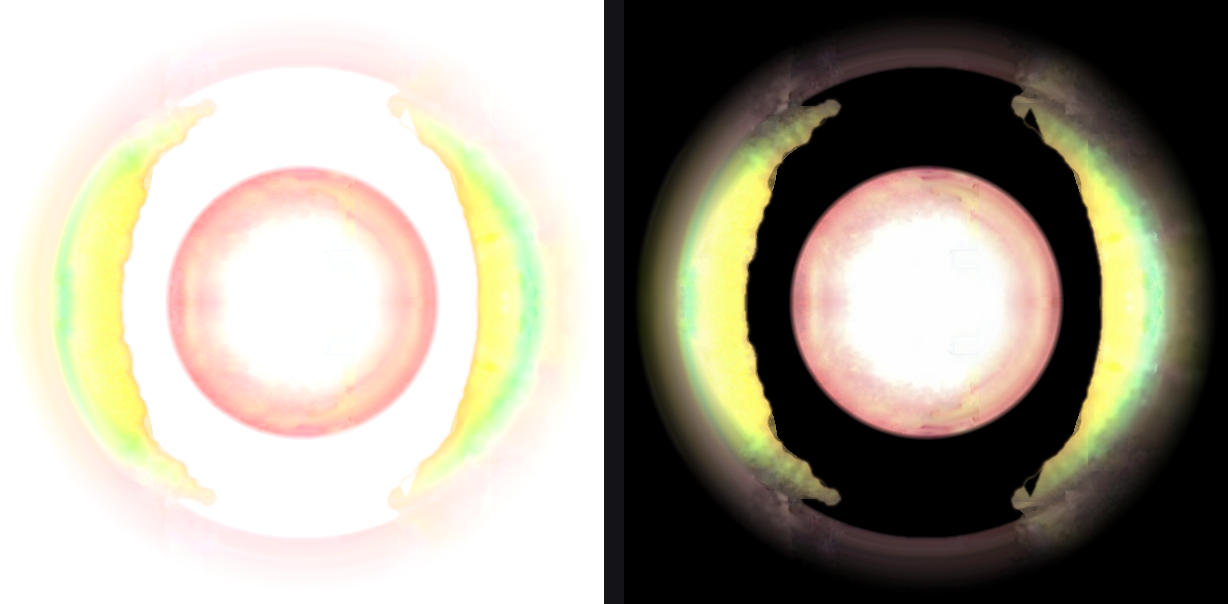
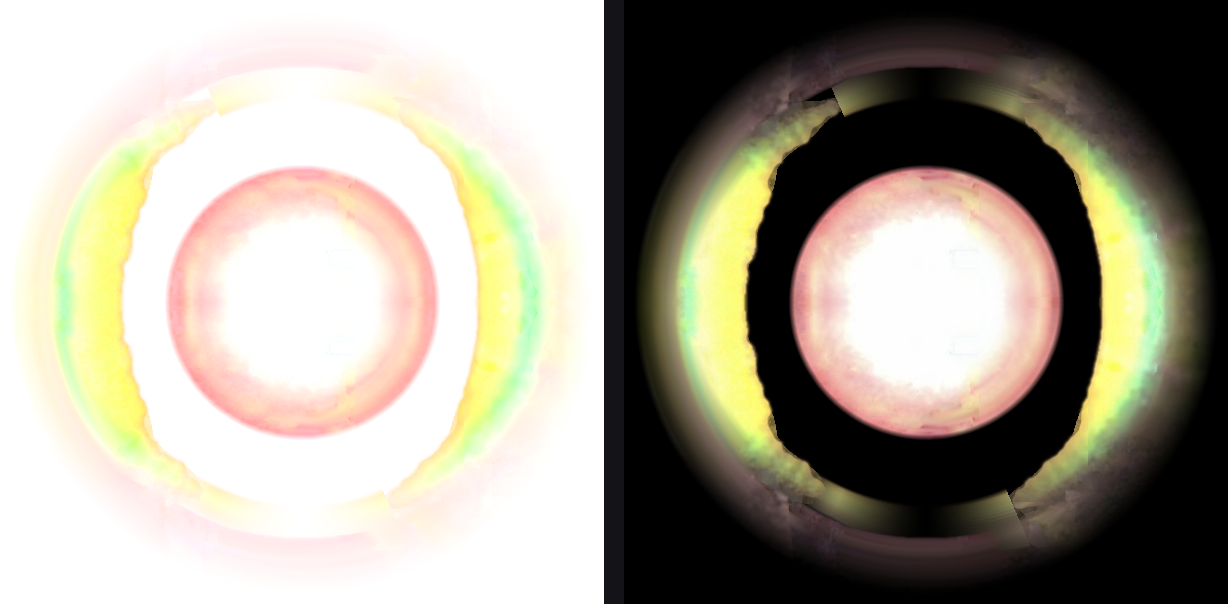
Efekt 10 küre: parantez uçları üstte ve altta birleşti, birleşme bandı uçlardan ortaya doğru saydamlaşıyor
Claude-Session: https://claude.ai/code/session_01E9c1WiJsMc9gXSJZ9D4z6g

diff --git a/arayuz/araclar/efekt10/kure_ref.py b/arayuz/araclar/efekt10/kure_ref.py
@@ -88,7 +88,7 @@ if not SADE:
     # kenar duzeltme (kutupsal): her parantez kendi merkez acisina gore (sag 0°, sol 180°) ±90° araliginda incelenir.
     # Aci basina ic/dis kenar olculur; ic kenar alt zarf, dis kenar ust zarfla duzgun yaya cekilir (girintiler dolar, cikintilar tiraslanir).
     # Uclar: parantezin aci araligi aynen kalir, son %10'da ic ve dis kenar birlesir -> uclar kalin ve sivri.
-    Yk=Y|Yc; NB=720
+    Yk=Y|Yc; NB=720; KENAR=[]
     for merkez in (0.0,np.pi):
         phi=np.angle(np.exp(1j*(np.arctan2(yy-CY,xx-CX)-merkez)))
         yan=np.abs(phi)<np.pi/2
@@ -108,9 +108,10 @@ if not SADE:
         ri=ndimage.gaussian_filter1d(ndimage.minimum_filter1d(ri,31,mode="nearest"),8,mode="nearest")
         ro=ndimage.gaussian_filter1d(ndimage.maximum_filter1d(ro,31,mode="nearest"),8,mode="nearest")
         pos=np.clip((np.arange(NB)-lo)/max(hi-lo,1),0,1)
-        uc=np.clip(np.minimum(pos,1-pos)/0.10,0,1)**0.7
+        uc=np.ones(NB)                                                    # incelme yok: uclar disari birlestirilir
         mid=(ri+ro)/2; ri2=mid-(mid-ri)*uc; ro2=mid+(ro-mid)*uc
         aralik=(bi>=lo)&(bi<=hi)&yan
+        KENAR.append((merkez,lo,hi,ri.copy(),ro.copy()))
         inside=aralik&(R>=ri2[bi])&(R<=ro2[bi])
         yeni=inside&~Yk
         if yeni.any():
@@ -120,6 +121,45 @@ if not SADE:
             T=T*(1-w2)+np.maximum(T,kom2)*w2
         tasan=Yk&aralik&(R<ri2[bi]-1.5)&(R>ri2[bi]-40)&(uc[bi]>0.5)           # ic kenardan iceri tasan cikintilar; dis hale ve uclar korunur
         T=T*(1-np.clip(ndimage.gaussian_filter(tasan.astype(np.float32),1.0),0,1))[...,None]
+    if len(KENAR)==2:
+        TT=T.copy()
+        th=np.arctan2(yy-CY,xx-CX)                                          # -pi..pi
+        def uc_bilgi(k,son):                                                # uc acisi (global), ic/dis yaricap, uc rengi profili
+            merkez,lo,hi,ri,ro=KENAR[k]; b=hi if son else lo
+            ic=(hi-40) if son else (lo+40)                                  # kalinlik ucun gerisinden (sivrilmeden once)
+            ang=merkez+(b+0.5)/NB*np.pi-np.pi/2
+            return np.angle(np.exp(1j*ang)), ri[ic], ro[ic], ic
+        def profil(k,b):                                                    # uca yakin (son 30 aci kutusu) parantez piksellerinin u'ya gore rengi
+            merkez,lo,hi,ri,ro=KENAR[k]
+            phi=np.angle(np.exp(1j*(th-merkez))); bi=np.clip(((phi+np.pi/2)/np.pi*NB).astype(int),0,NB-1)
+            yak=(np.abs(bi-b)<30)&(np.abs(phi)<np.pi/2)&(bi>=lo)&(bi<=hi)
+            u=(R-ri[bi])/np.maximum(ro[bi]-ri[bi],1); q=yak&(u>=0)&(u<=1)&(TT.max(2)>0.15)
+            P=np.zeros((20,3)); n=np.zeros(20); ub=np.clip((u[q]*20).astype(int),0,19)
+            for c in range(3): P[:,c]=np.bincount(ub,weights=TT[...,c][q],minlength=20)
+            n=np.bincount(ub,minlength=20); ok=n>0
+            for c in range(3): P[:,c]=np.interp(np.arange(20),np.where(ok)[0],P[ok,c]/n[ok]) if ok.any() else 0
+            return ndimage.uniform_filter1d(P,3,axis=0)
+        # sag parantez (k=0): hi ucu asagi (aci artar -> +y = ekranda asagi), lo ucu yukari; sol (k=1) tersi
+        uclar=[uc_bilgi(0,True),uc_bilgi(0,False),uc_bilgi(1,True),uc_bilgi(1,False)]
+        for (i1,i2) in ((0,3),(2,1)):                                       # (sag-alt -> sol-alt), (sol-ust -> sag-ust)
+            a1,ri1,ro1,b1=uclar[i1]; a2,ri2_,ro2_,b2=uclar[i2]
+            k1,k2=(0 if i1<2 else 1),(0 if i2<2 else 1)
+            P1,P2=profil(k1,b1),profil(k2,b2)
+            span=np.angle(np.exp(1j*(a2-a1)))
+            if span<=0: span+=2*np.pi
+            t=np.angle(np.exp(1j*(th-a1))); t=np.where(t<0,t+2*np.pi,t)/span      # 0: birinci uc, 1: ikinci uc
+            g=(t>-0.3)&(t<1.3)
+            giris=np.clip(np.minimum(t+0.3,1.3-t)/0.3,0,1); giris=giris*giris*(3-2*giris)                     # parantezin icine yumusak giris (keskin kesik yok)
+            t=np.clip(t,0,1)
+            rin=ri1*(1-t)+ri2_*t; rout=ro1*(1-t)+ro2_*t
+            u=(R-rin)/np.maximum(rout-rin,1)
+            bant=g&(u>=0)&(u<=1)
+            sol=np.clip(np.minimum(u/0.08,(1-u)/0.15),0,1)                        # ic kenar net, dis kenar yumusak
+            sondur=np.clip(1-np.minimum(t,1-t)*2,0,1)**1.6                           # uctan uzaklastikca saydamlasir (ortada ~0)
+            ui=np.clip((u*20).astype(int),0,19)
+            renk=P1[ui]*(1-t)[...,None]+P2[ui]*t[...,None]
+            w=(bant*sol*sondur*giris)[...,None]
+            T=np.maximum(T,renk*w)
 # daire disi (isaretli bolge disi) yumusakca saydam
 T=T*np.clip((RMAX+30-R)/45,0,1)[...,None]
 os.makedirs(K,exist_ok=True)
